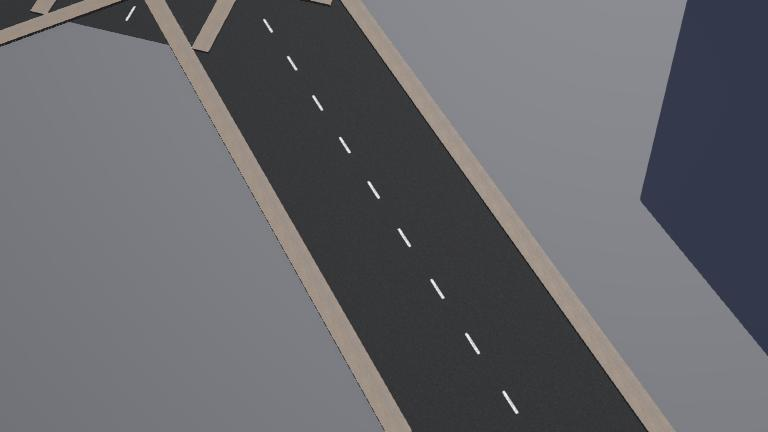
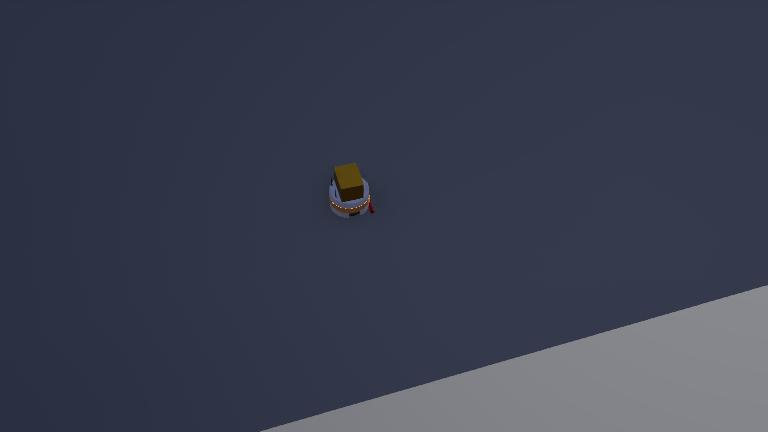
leaked api

diff --git a/controllers/delivery_controller/llm_brain.py b/controllers/delivery_controller/llm_brain.py
@@ -12,7 +12,7 @@ except ImportError:
 # We still keep this to build the prompt context
 ZONES = {
     "residential": {
-        "coords": (78.0, -17.7), 
+        "coords": (85.2, -5.14), 
         "desc": "Home base, my house, sleeping, delivery drop-off, safety."
     },
     "park": {

diff --git a/controllers/delivery_controller/delivery_controller.py b/controllers/delivery_controller/delivery_controller.py
@@ -48,7 +48,7 @@ if user_request:
 else:
     print("❌ No input. Going Home.")
     zone_name = "residential"
-    destination = (0.0, 0.0)
+    destination = (85.2, -5.14)
 
 TARGETS = [destination]
 
